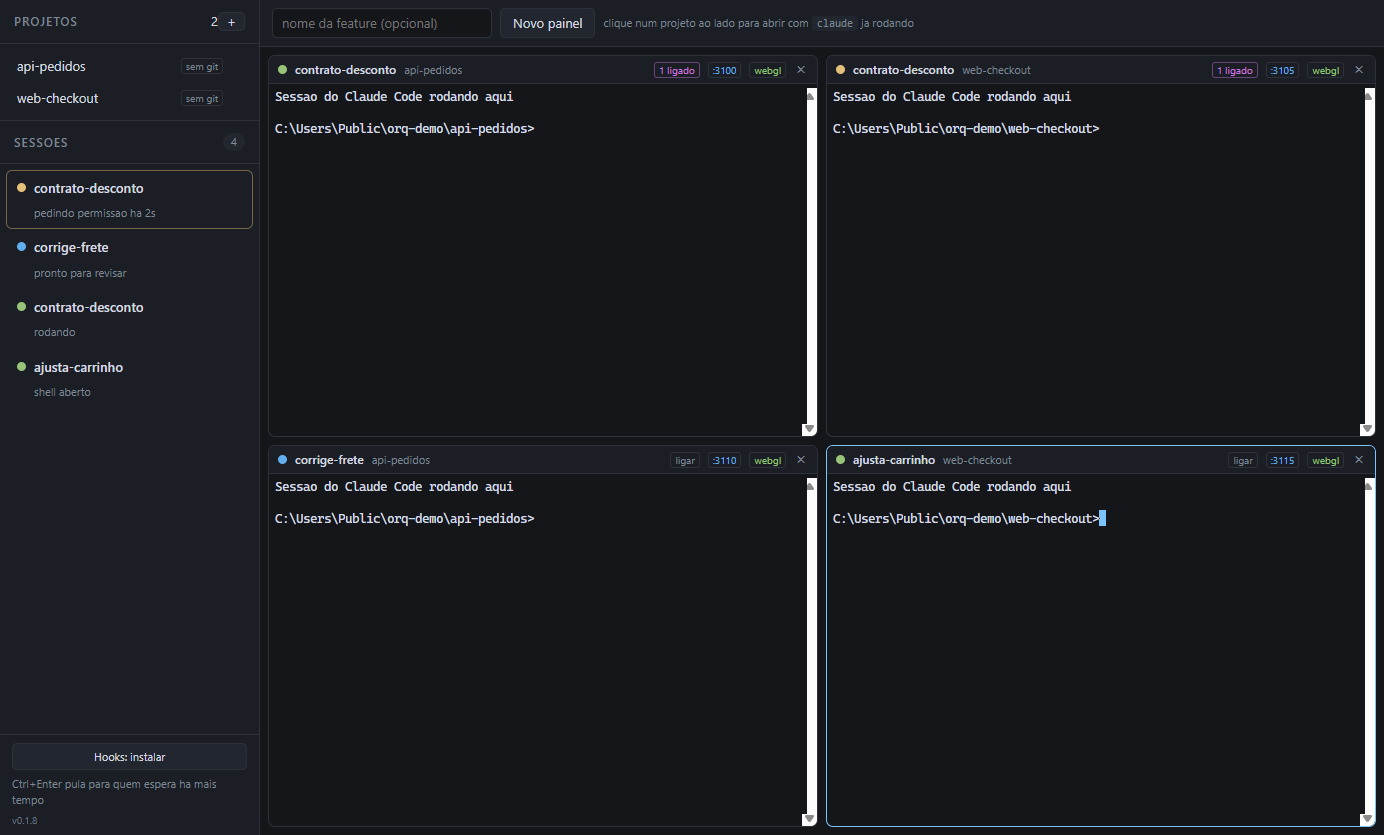
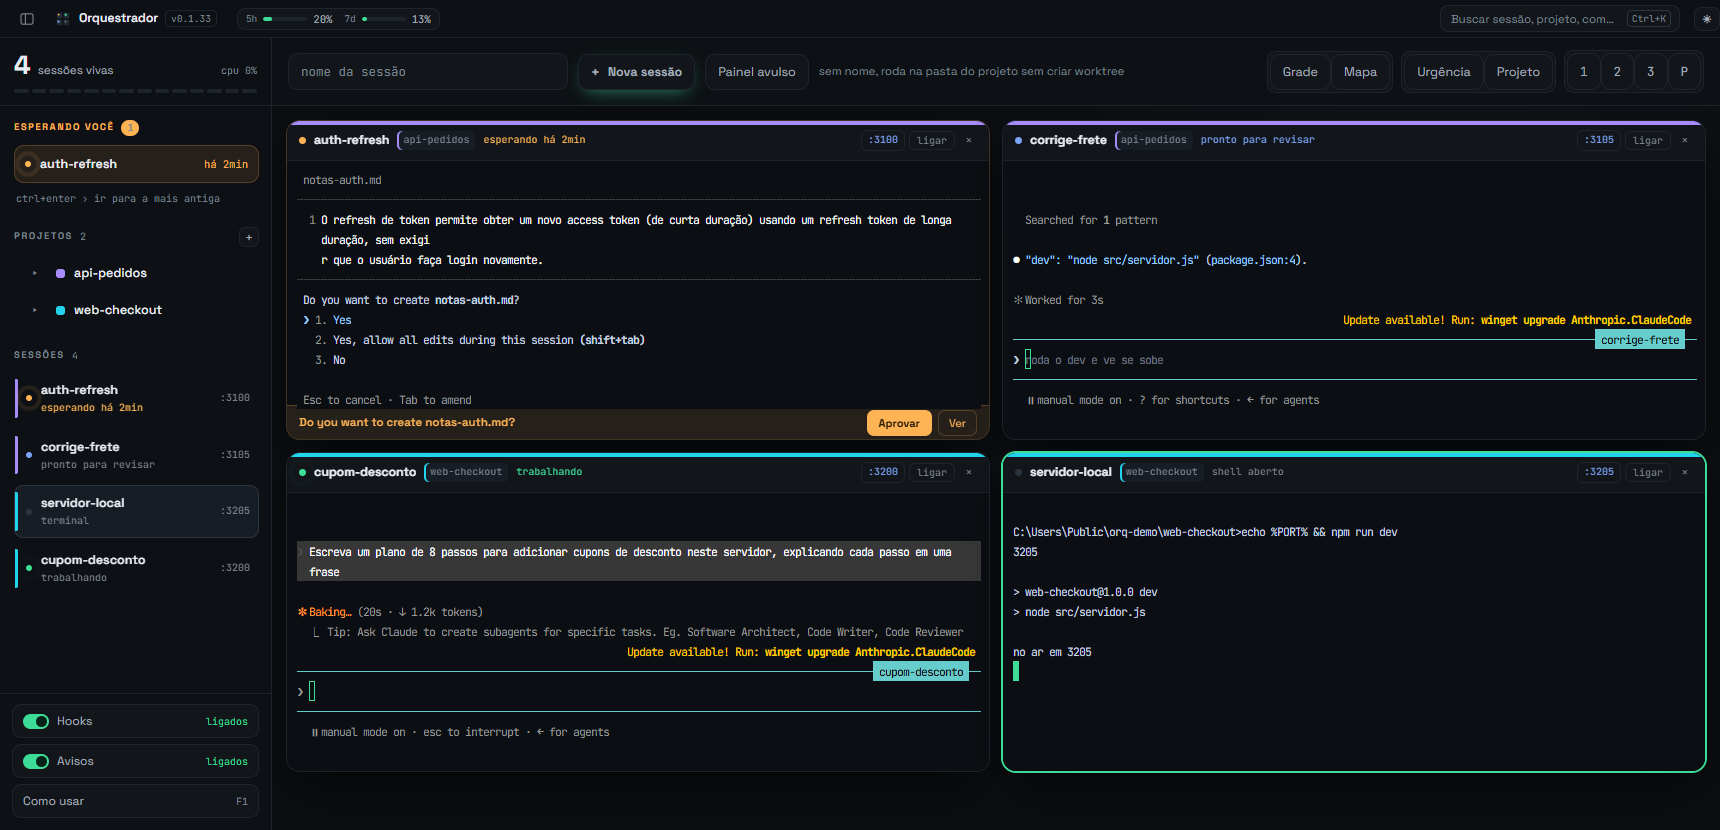
Print do README: a tela mostrada era anterior ao redesenho
A imagem era a v0.1.8, de antes da nova UI: sem barra de titulo propria, sem
medidor de uso, sem bloco ESPERANDO VOCE, sem faixa de aprovacao, e com os
projetos marcados "sem git". Quem chegava pelo README via um app que nao existe
mais.

O print novo saiu do app rodando de verdade (v0.1.33), capturado pelo CDP com
sessoes reais do Claude Code em dois repositorios de demonstracao, uma em cada
status que a grade existe para separar:

    auth-refresh     esperando   pedido de permissao real, com Aprovar e Ver
    cupom-desconto   rodando
    corrige-frete    terminou    pronto para revisar
    servidor-local   terminal    npm run dev na porta 3205 que o app injetou

Encenar os terminais era a alternativa barata, e nao valia: a faixa de aprovacao
so aparece com um pedido de verdade na tela, e e ela que carrega o argumento do
app inteiro.

Duas linhas do texto que o print antigo sustentava sairam junto, porque a tela
nova as desmente: o botao "Hooks: instalar" virou interruptor, e o botao "Ajuda"
virou "Como usar" (com o ⌘+/ do macOS ao lado do F1).

diff --git a/README.md b/README.md
@@ -6,7 +6,7 @@
 
 <br clear="left">
 
-![A janela do app com quatro sessões abertas](recursos/tela.png)
+![Quatro sessões na grade: uma pedindo permissão, uma trabalhando, uma pronta para revisar e um terminal](recursos/tela.png)
 
 ## O que ele resolve
 
@@ -72,7 +72,7 @@ código-fonte.
 
 ### Ligue os hooks na primeira vez
 
-No rodapé da barra lateral há o botão **Hooks: instalar**. Ele registra no seu
+No rodapé da barra lateral há o interruptor **Hooks**. Ligá-lo registra no seu
 `~/.claude/settings.json` os avisos que fazem as bolinhas mudarem sozinhas.
 
 O app pergunta antes, faz backup do arquivo e preserva o que já estiver lá. Sem os hooks o app
@@ -114,8 +114,8 @@ retomar — e um "Retomar todas" na lateral.
 
 ### Ajuda dentro do app
 
-**F1**, ou o botão **Ajuda** no rodapé da lateral. É o manual completo — cada recurso, os atalhos, as
-portas, os hooks e uma seção de problemas comuns com sintoma e causa.
+**F1** (ou **⌘+/** no Mac), ou o botão **Como usar** no rodapé da lateral. É o manual completo — cada
+recurso, os atalhos, as portas, os hooks e uma seção de problemas comuns com sintoma e causa.
 
 Os números que ela cita (portas, limites, caminho da pasta de dados) são lidos do app em execução, não
 copiados à mão, então não envelhecem quando o código muda.
